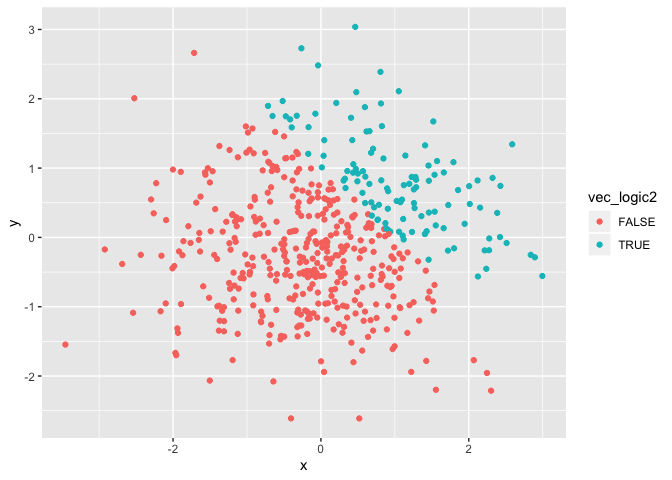
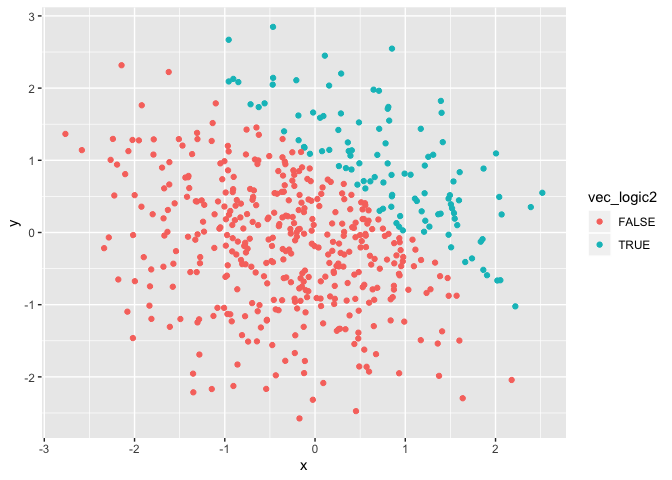
Third change

diff --git a/p8105_hw1_yw3438.md b/p8105_hw1_yw3438.md
@@ -29,10 +29,10 @@ lapply(problem1_df, mean)
     ## returning NA
 
     ## $ran_sample
-    ## [1] -0.2685852
+    ## [1] -0.32948
     ## 
     ## $gr_th_0_logical
-    ## [1] 0.25
+    ## [1] 0.5
     ## 
     ## $vec_character
     ## [1] NA
@@ -56,8 +56,8 @@ gr_th_0_num = as.numeric(pull(problem1_df, gr_th_0_logical))
 (gr_th_0_num)*(pull(problem1_df, ran_sample))
 ```
 
-    ## [1] 0.2648384 0.0000000 0.9246587 0.0000000 0.0000000 0.0000000 0.0000000
-    ## [8] 0.0000000
+    ## [1] 0.00000000 1.33243532 0.00000000 0.10964358 0.01446495 0.00000000
+    ## [7] 0.00000000 0.52690989
 
 ``` r
 ##convert the logical vector to a factor, and multiply the random sample by the result##
@@ -83,8 +83,8 @@ gr_th_0_fac_num = as.numeric(as.factor
 (gr_th_0_fac_num)*(pull(problem1_df, ran_sample))
 ```
 
-    ## [1]  0.52967677 -0.25810927  1.84931741 -0.99374646 -0.01497113 -0.14372761
-    ## [7] -1.57717983 -0.35044449
+    ## [1] -1.6260909  2.6648706 -0.9746778  0.2192872  0.0289299 -0.5582164
+    ## [7] -1.4603087  1.0538198
 
 # Problem 2
 
@@ -102,11 +102,11 @@ The size of this dataset can be described by its columns and rows. The
 number of the columns is 5 and the number of the rows of the dataset is
 500.
 
-The mean of x is 0.0215927, the median of x is 0.0773137 and the
-standard deviation of x is 1.0458719.
+The mean of x is -0.105359, the median of x is -0.1226817 and the
+standard deviation of x is 0.9961969.
 
 The proportion of cases for which x + y \> 1 is
-0.256
+0.214
 
 ## The Scatterplot of x and y
 
